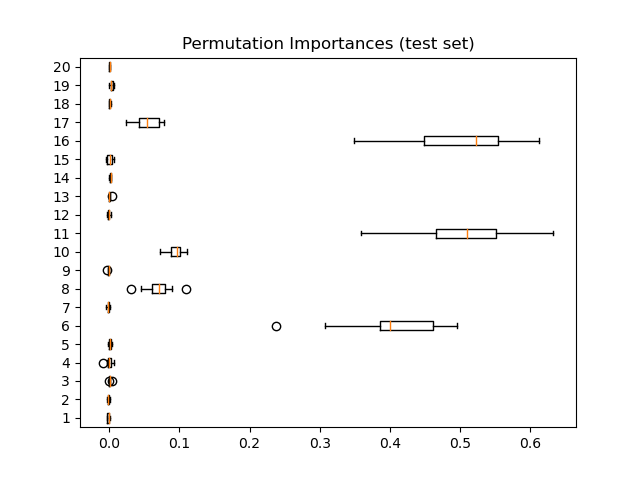
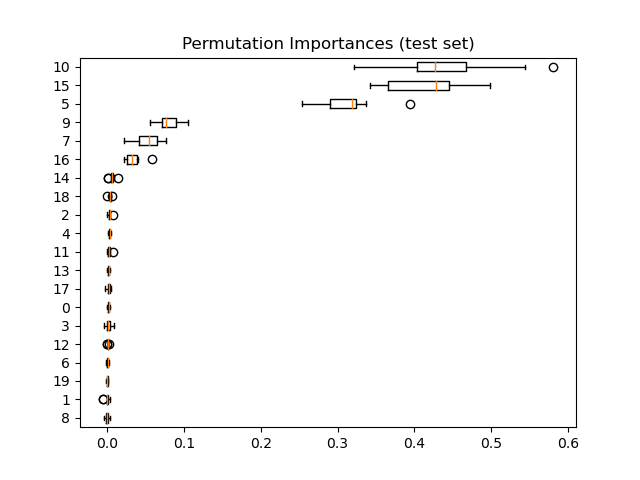
ordered feature importance by mean in plot

diff --git a/MachineLearning/Boosting/boosting_reg.py b/MachineLearning/Boosting/boosting_reg.py
@@ -17,6 +17,7 @@ X, y = make_regression(n_samples = 500, n_features = 20, noise = 50,
                        random_state= 42)
 logging.info(f"X shape:{X.shape}, y shape: {y.shape}")
 
+print(pd.DataFrame(X).columns)
 
 # Split data into training and testing sets
 X_train, X_test, y_train, y_test = train_test_split(X, y, test_size = 0.2)
@@ -47,6 +48,11 @@ feat_imp = permutation_importance(
     model, X_test, y_test, n_repeats=10, random_state=42, n_jobs=20
 )
 
-plt.boxplot(feat_imp.importances.T, vert=False)
+sorted_idx = feat_imp.importances_mean.argsort()
+plt.boxplot(
+    feat_imp.importances[sorted_idx].T, 
+    labels = np.array(pd.DataFrame(X).columns)[sorted_idx], 
+    vert=False
+)
 plt.title("Permutation Importances (test set)")
 plt.savefig("permutation_importance.png")
